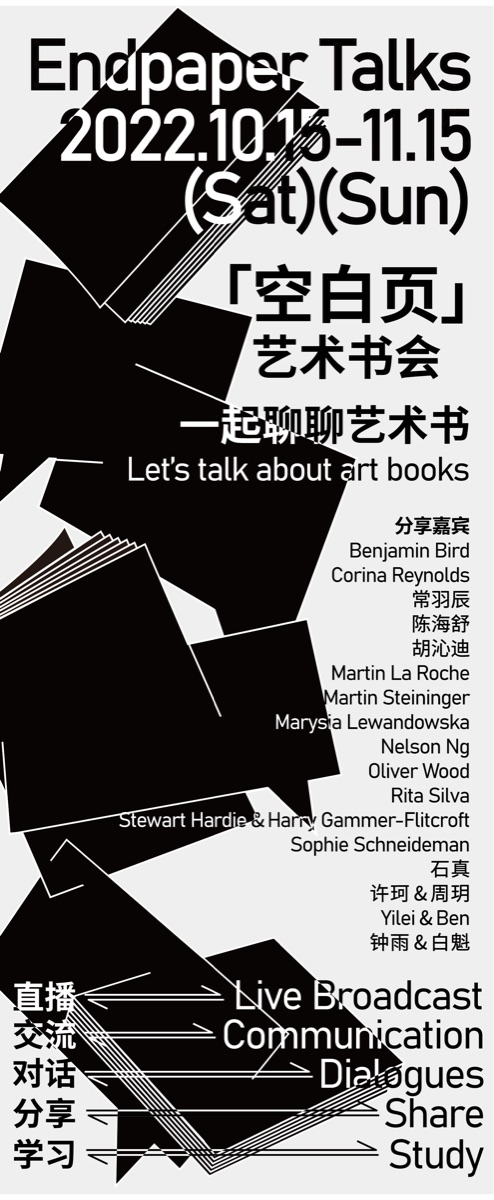
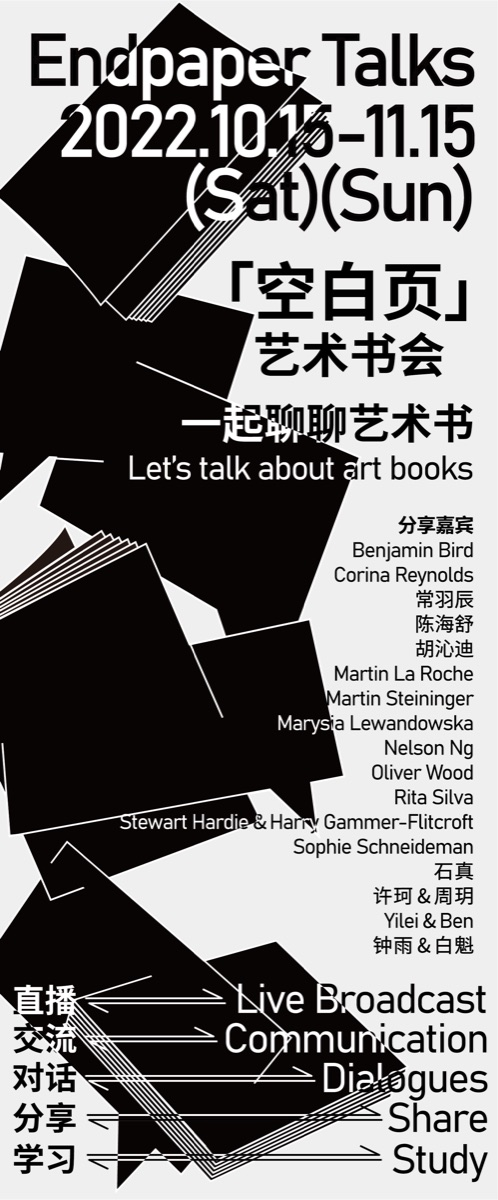
little error 2

diff --git a/assets/project.js b/assets/project.js
@@ -61,7 +61,7 @@ const projects = {
   "endpaper-talks": {
     title: "Endpaper Talks", category: "Event identity",
     intro: "Online and offline visual design for an art book club, including event posters and promotional materials.",
-    images: [image("assets/images/portfolio/endpaper-talks.jpg", "Black and white Endpaper Talks art book event poster", 494, 1200), image("assets/images/portfolio/x-art-bookshop.jpg", "X-Art Bookshop poster with illustrated hands and books", 494, 1200), image("assets/images/portfolio/parallel-institute.jpg", "Parallel Institute poster with illustrated hands", 494, 1200)],
+    images: [image("assets/images/portfolio/endpaper-talks.jpg", "Black and white Endpaper Talks art book event poster", 498, 1200), image("assets/images/portfolio/x-art-bookshop.jpg", "X-Art Bookshop poster with illustrated hands and books", 499, 1200), image("assets/images/portfolio/parallel-institute.jpg", "Parallel Institute poster with illustrated hands", 494, 1200)],
     content: `
       <section class="case-section"><h2>Project</h2><p>The visual system supported an art book club across online promotion and physical event materials.</p></section>
       <section class="case-section"><h2>Exhibition photographs</h2><div class="case-gallery"><img src="assets/images/portfolio/endpaper-exhibition-1.jpg" width="1200" height="1600" alt="Endpaper Talks exhibition installation" loading="lazy" decoding="async"><img src="assets/images/portfolio/endpaper-exhibition-2.jpg" width="1200" height="1600" alt="Endpaper Talks exhibition display" loading="lazy" decoding="async"><img src="assets/images/portfolio/endpaper-exhibition-3.jpg" width="1600" height="1283" alt="Endpaper Talks event space" loading="lazy" decoding="async"><img src="assets/images/portfolio/endpaper-exhibition-4.jpg" width="1200" height="1600" alt="Endpaper Talks printed materials at the exhibition" loading="lazy" decoding="async"></div></section>

diff --git a/index.html b/index.html
@@ -56,7 +56,7 @@
               <h4>roopy</h4><p class="project-meta">Social content · 2023</p>
             </article></a>
             <a class="project-card-link" href="project.html?id=endpaper-talks"><article class="project">
-              <div class="cover card--neutral"><span class="cover-art" aria-hidden="true"><img src="assets/images/portfolio/endpaper-talks.jpg" width="494" height="1200" alt="" loading="lazy" decoding="async"><img src="assets/images/portfolio/x-art-bookshop.jpg" width="494" height="1200" alt="" loading="lazy" decoding="async"><img src="assets/images/portfolio/parallel-institute.jpg" width="494" height="1200" alt="" loading="lazy" decoding="async"></span></div>
+              <div class="cover card--neutral"><span class="cover-art" aria-hidden="true"><img src="assets/images/portfolio/endpaper-talks.jpg" width="498" height="1200" alt="" loading="lazy" decoding="async"><img src="assets/images/portfolio/x-art-bookshop.jpg" width="499" height="1200" alt="" loading="lazy" decoding="async"><img src="assets/images/portfolio/parallel-institute.jpg" width="494" height="1200" alt="" loading="lazy" decoding="async"></span></div>
               <h4>Endpaper Talks</h4><p class="project-meta">Event identity · 2022</p>
             </article></a>
           </div>

diff --git a/WORK_LOG.md b/WORK_LOG.md
@@ -354,3 +354,8 @@
 
 1. roopy and Endpaper Talks now use `card--neutral`. Sheridan Ride is back to the default card pink.
 2. `.project-tag` is now `z-index: 2`, so the In progress pill sits above the screenshots (which are `z-index: 1` and come later in the markup).
+
+## Updated Endpaper posters
+
+1. Ashley replaced two source posters in `oldPortfolioAssets` (`135X325X3-01.png` → endpaper-talks.jpg and `-03.png` → x-art-bookshop.jpg). Re-exported both web copies (1200px tall, JPEG 82): now 498x1200 and 499x1200. Updated their width attributes in project.js and on the homepage card. Source files are unchanged.
+2. Captured the homepage card and the Endpaper page on localhost:3000 at 1280px.
